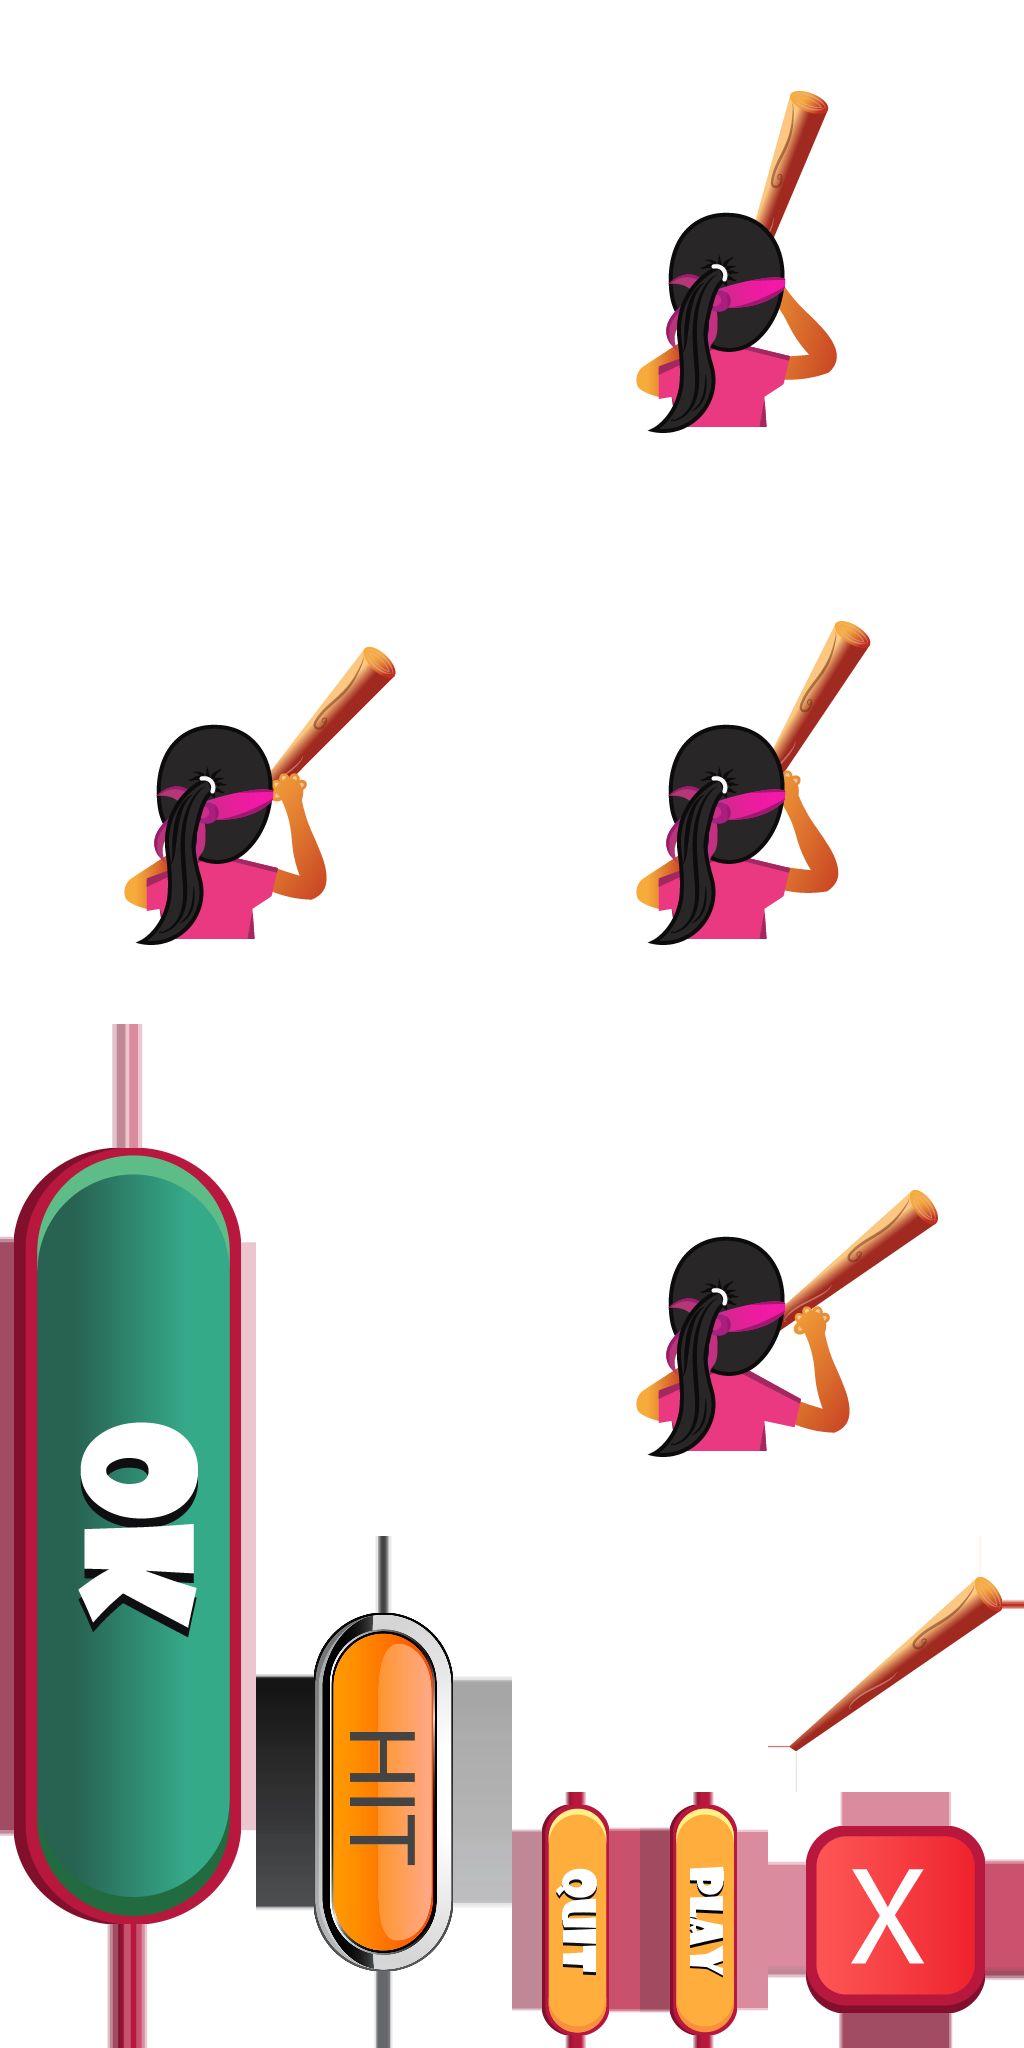
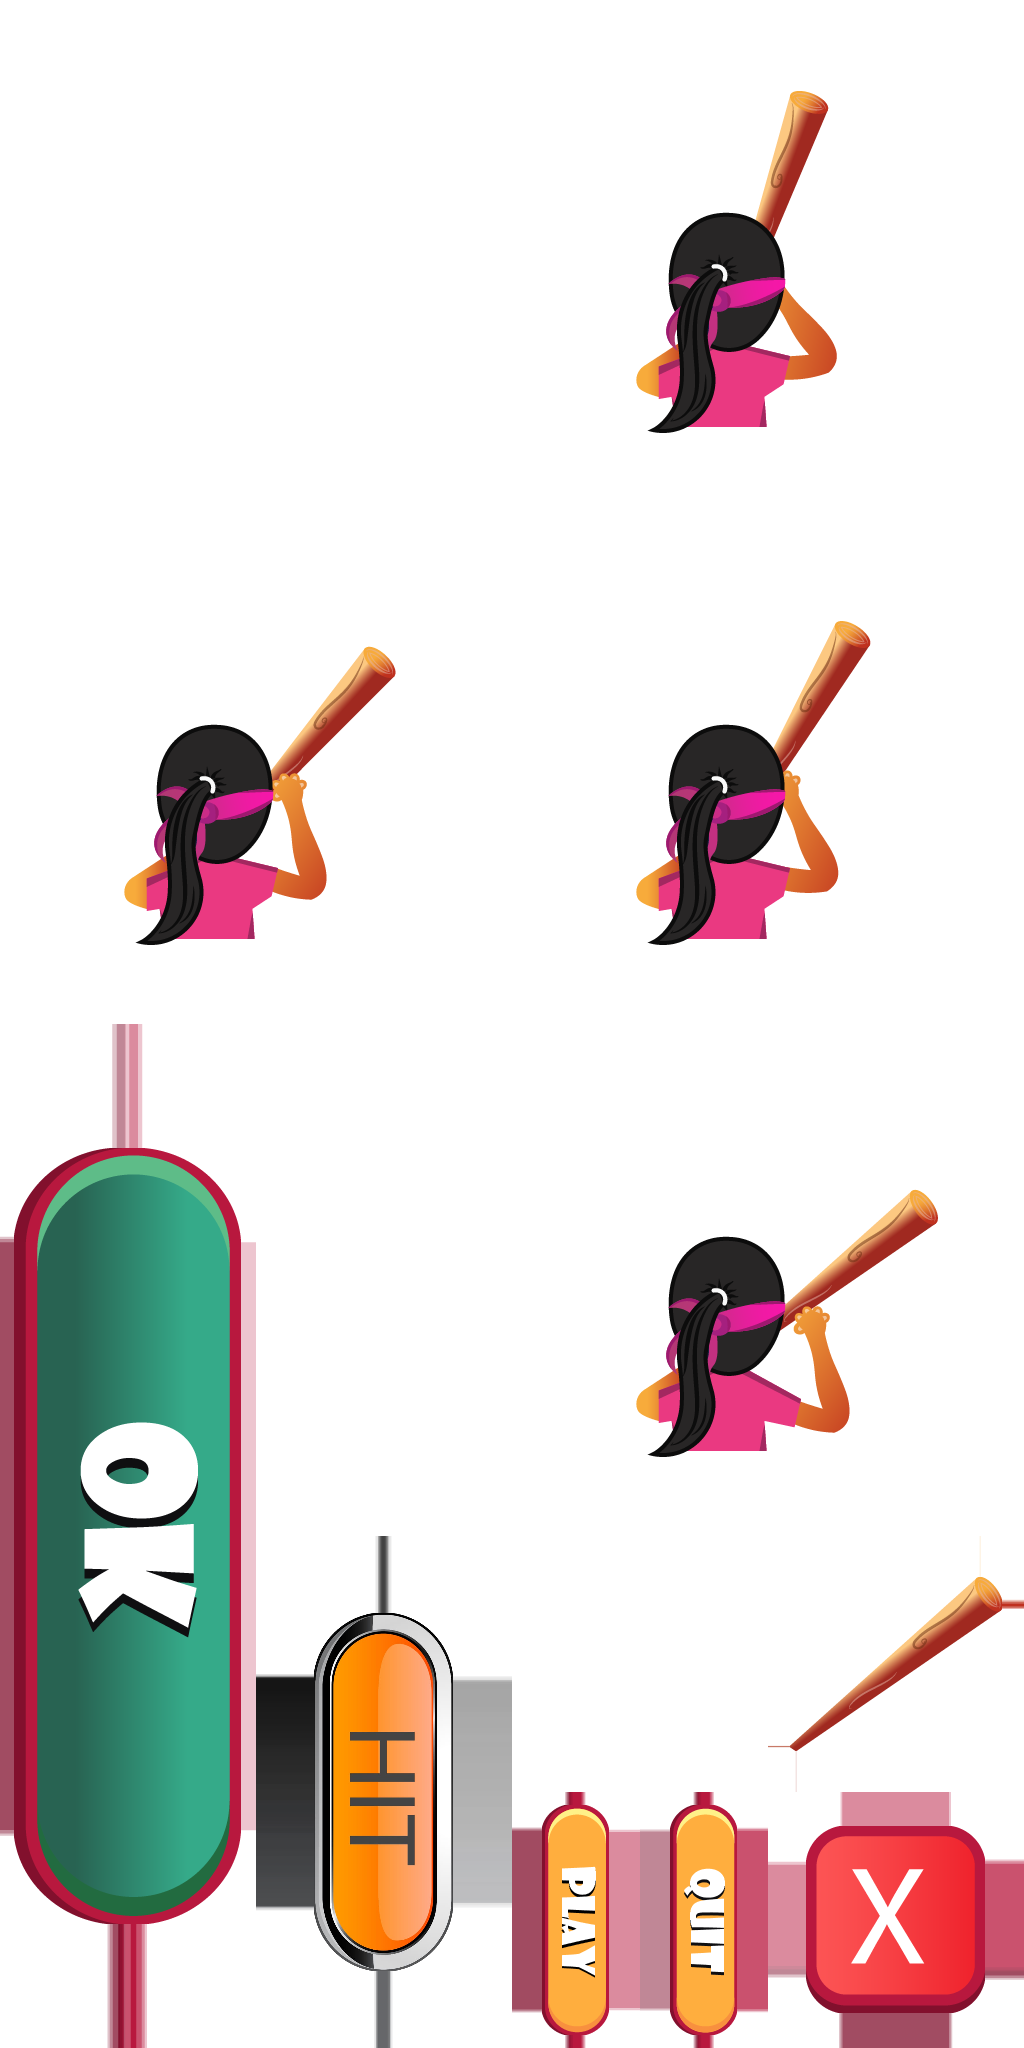
update landscape

Changed region(s): [[0.5, 0.875, 0.75, 1.0]]

diff --git a/KanaMutti/scripts/c3runtime.js b/KanaMutti/scripts/c3runtime.js
@@ -4140,14 +4140,21 @@ self.C3_GetObjectRefTable = function () {
 		C3.Plugins.System.Cnds.OnLayoutStart,
 		C3.Plugins.System.Acts.SetVar,
 		C3.Plugins.System.Cnds.EveryTick,
+		C3.Plugins.System.Cnds.LayerVisible,
 		C3.Plugins.Sprite.Cnds.CompareInstanceVar,
 		C3.Plugins.Sprite.Acts.SetWidth,
 		C3.Plugins.System.Cnds.CompareVar,
 		C3.Plugins.System.Acts.AddVar,
+		C3.Plugins.Text.Cnds.CompareInstanceVar,
 		C3.Plugins.System.Cnds.TriggerOnce,
 		C3.Plugins.Text.Acts.SetText,
 		C3.Plugins.System.Acts.Wait,
 		C3.Plugins.System.Exps.random,
+		C3.Plugins.Browser.Cnds.IsPortraitLandscape,
+		C3.Plugins.System.Acts.SetLayerVisible,
+		C3.Plugins.Touch.Cnds.OnTouchStart,
+		C3.Plugins.Browser.Acts.RequestFullScreen,
+		C3.Plugins.Browser.Acts.LockOrientation,
 		C3.Plugins.System.Acts.UnloadUnusedTextures,
 		C3.Plugins.System.Acts.LoadLayoutTexturesByName,
 		C3.Plugins.System.Cnds.OnImageLoadingComplete,
@@ -4161,7 +4168,6 @@ self.C3_GetObjectRefTable = function () {
 		C3.Plugins.Browser.Acts.Alert,
 		C3.Plugins.System.Acts.SetGroupActive,
 		C3.Plugins.AJAX.Cnds.OnError,
-		C3.Plugins.System.Acts.SetLayerVisible,
 		C3.Plugins.Arr.Cnds.ArrForEach,
 		C3.Plugins.Arr.Acts.SetX,
 		C3.Plugins.Arr.Exps.CurX,
@@ -4170,7 +4176,6 @@ self.C3_GetObjectRefTable = function () {
 		C3.Plugins.System.Cnds.ForEach,
 		C3.Plugins.Arr.Exps.At,
 		C3.Plugins.Touch.Cnds.OnTouchObject,
-		C3.Plugins.System.Cnds.LayerVisible,
 		C3.Plugins.Browser.Acts.Close,
 		C3.Plugins.Sprite.Acts.SetPos,
 		C3.Plugins.Sprite.Acts.SetOpacity,
@@ -4180,7 +4185,6 @@ self.C3_GetObjectRefTable = function () {
 		C3.Plugins.Sprite.Acts.SetX,
 		C3.Plugins.Touch.Cnds.IsTouchingObject,
 		C3.Plugins.Sprite.Acts.SetVisible,
-		C3.Plugins.Text.Cnds.CompareInstanceVar,
 		C3.Plugins.Text.Acts.SetVisible,
 		C3.Plugins.Sprite.Cnds.IsVisible,
 		C3.Plugins.Sprite.Acts.SetInstanceVar,
@@ -4346,6 +4350,7 @@ function or(l, r)
 self.C3_ExpressionFuncs = [
 		() => "loadingbar_conf",
 		() => 0,
+		() => "alert",
 		() => "loadingbar",
 		p => {
 			const v0 = p._GetNode(0).GetVar();
@@ -4353,12 +4358,14 @@ self.C3_ExpressionFuncs = [
 		},
 		() => 904,
 		() => 2,
+		() => "loading",
 		() => "Entering the Game...",
 		p => {
 			const f0 = p._GetNode(0).GetBoundMethod();
 			return () => f0(5, 10);
 		},
 		() => "Title",
+		() => "Alert-screen-for-portrait-users",
 		() => "Transitions",
 		() => 1,
 		() => 100,
